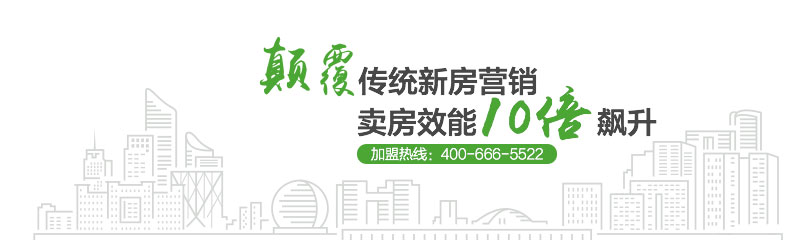
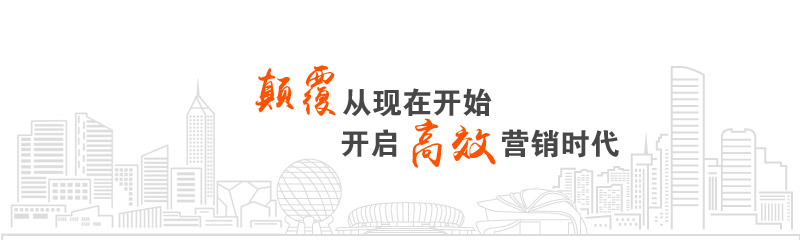
no commit message

Changed region(s): [[0.0, 0.1458, 1.0, 1.0], [0.8438, 0.2625, 0.875, 0.2917]]

diff --git a/template/default/pc/skin/css/home.css b/template/default/pc/skin/css/home.css
@@ -1,14 +1,14 @@
 @charset "UTF-8";
 /* CSS Document */
-a{color:#333;}a:hover{color:#4ba634;}
-.headindex{width:100%; height:240px; overflow:hidden; border-bottom:#4ba634 2px solid;}
+a{color:#333;}a:hover{color:#fe5b0e;}
+.headindex{width:100%; height:240px; overflow:hidden; border-bottom:#fe5b0e 2px solid;}
 .fivindexcont{width:1200px; margin:0 auto; overflow:hidden;}
 .fivico{background:url(../img/fivindexico.png) no-repeat;}
-.maxindexlogo{width:380px; float:left; height:190px; overflow:hidden; background-position:50px 60px; text-indent:-99em;}
+.maxindexlogo{width:380px; float:left; height:190px; overflow:hidden;background: url(../img/logo.png) no-repeat  0px 80px;}
 .gjhb,.gjhb img{width:800px; height:240px; overflow:hidden;}
 .gjhb{float:left;}
 .cityip{text-align:center; display:block; overflow:hidden;}
-a.dwcity{height:46px; background:#4ba634; color:#fff; font-size:18px; padding:0 50px; line-height:46px; border-radius:23px; margin:40px auto 0 auto; display:inline-block; *display:inline; *zoom:1;}
+a.dwcity{height:46px; background:#fe5b0e; color:#fff; font-size:18px; padding:0 50px; line-height:46px; border-radius:23px; margin:40px auto 0 auto; display:inline-block; *display:inline; *zoom:1;}
 .cityip p{line-height:52px; text-align:center;}
 .cityip p a{padding:5px; margin:0 5px 0 0;}
 .fjcity{border-bottom:#e4e4e4 1px solid; padding:0 0 20px;}
@@ -23,7 +23,7 @@ a.dwcity{height:46px; background:#4ba634; color:#fff; font-size:18px; padding:0 
 .rmcity{max-width:600px; height:36px; float:left; overflow:hidden;}
 .rmcity strong,.rmcity a{line-height:36px; padding:0 5px; margin-right:10px; display:inline-block;}
 .rmcity strong{padding:0;}
-a.openjiwu{background:#4ba634; height:36px; line-height:36px; width:90px; border-radius:2px; color:#fff; font-size:14px; text-align:center;display: block;float: left;font-weight: bold;}
+a.openeju{background:#fe5b0e; height:36px; line-height:36px; width:90px; border-radius:2px; color:#fff; font-size:14px; text-align:center;display: block;float: left;font-weight: bold;}
 .citymar{padding:20px 0 30px;}
 h3.cityqy{font-size:24px; color:#ddd; line-height:48px; margin-top:10px;}
 dl.newscity{width:1200px; margin:0 auto; clear:both; overflow:hidden; zoom:1; padding:0 0 5px;}

diff --git a/template/default/pc/lists_single_quyu.htm b/template/default/pc/lists_single_quyu.htm
@@ -14,11 +14,11 @@
 <link rel="stylesheet" type="text/css" href="{eju:global name='web_templets_pc' /}/skin/css/home.css">
 <script src="{eju:global name='web_templets_pc' /}/skin/js/jquery.min.js"></script>
 </head>
-<body class="new">
+<body>
 <!-- topBar S --> <div class="headindex">
     <div class="fivindexcont">
-        <a href="http://open.eju.com/?keywords=eju" class="fivico maxindexlogo">eju—发现更好的房子</a>
-        	<div class="gjhb"><a href="http://open.eju.com/?keywords=dianfu"><img id="hearAdImg" src="{eju:global name='web_templets_pc' /}/skin/img/142154749886.jpg" alt="" ></a></div>
+        <a href="{eju:global name='web_cmsurl' /}" class="maxindexlogo"></a>
+        	<div class="gjhb"><a href="{eju:global name='web_cmsurl' /}"><img id="hearAdImg" src="{eju:global name='web_templets_pc' /}/skin/img/142154749886.jpg" alt="" ></a></div>
     </div>
 </div>
 <div class="fivindexcont">
@@ -50,7 +50,7 @@
         <a href="http://nj.eju.com">南京</a>
         <a href="http://qingdao.eju.com">青岛</a>
     </div>
-    <a href="http://open.eju.com/?keywords=city" target="_blank" class="openeju">加盟eju</a>
+    <a href="http://open.eju.com/?keywords=city" target="_blank" class="openeju">加盟易居</a>
 </div>
 <div class="fivindexcont citymar">
 		<h3 class="cityqy">华东</h3>
